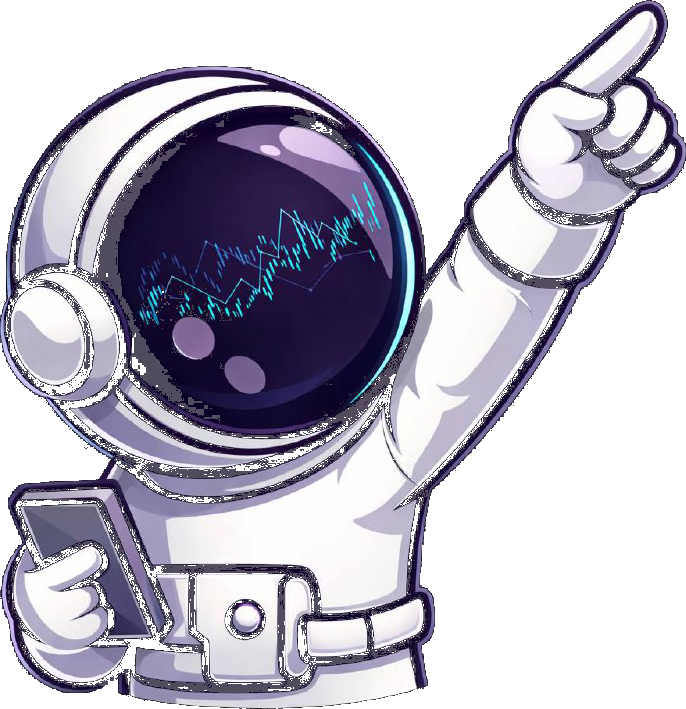
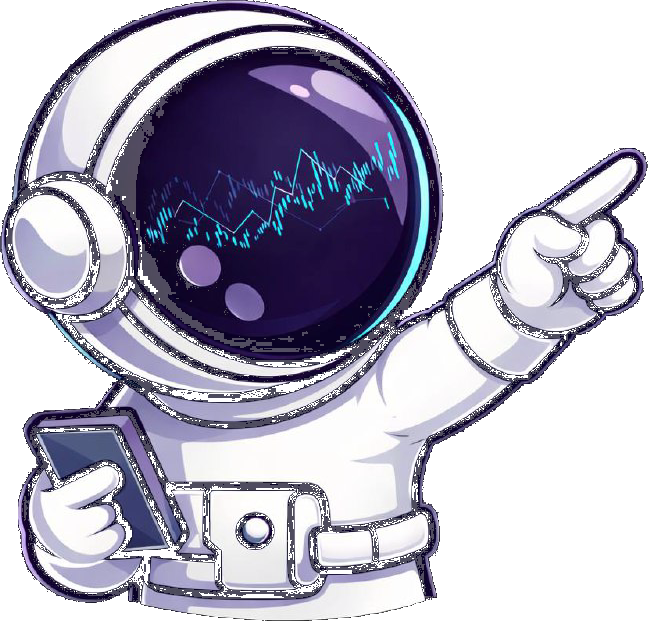
Replace custom6 mascot image (and reset override)

diff --git a/server.js b/server.js
@@ -4195,7 +4195,7 @@ function createClosedCardSvgV3({ id, symbol, direction, outcome, result, entry, 
     "mascot_win_custom5.png": { y: -200 },
 
     // Custom6: smaller
-    "mascot_win_custom6.png": { x: -260, y: 420, w: 550, h: 620 },
+    "mascot_win_custom6.png": { x: -200, y: 360, w: 680, h: 760 },
     // loss
     // "mascot_loss_force.png": { x: -160, y: 400, w: 840, h: 940 },
   };
